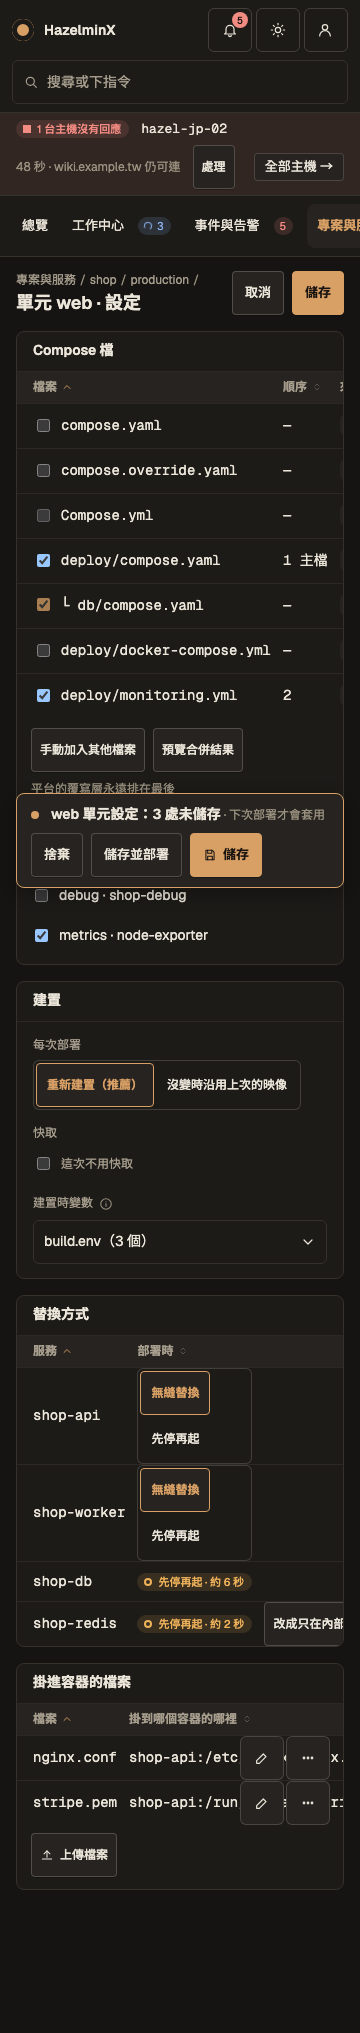
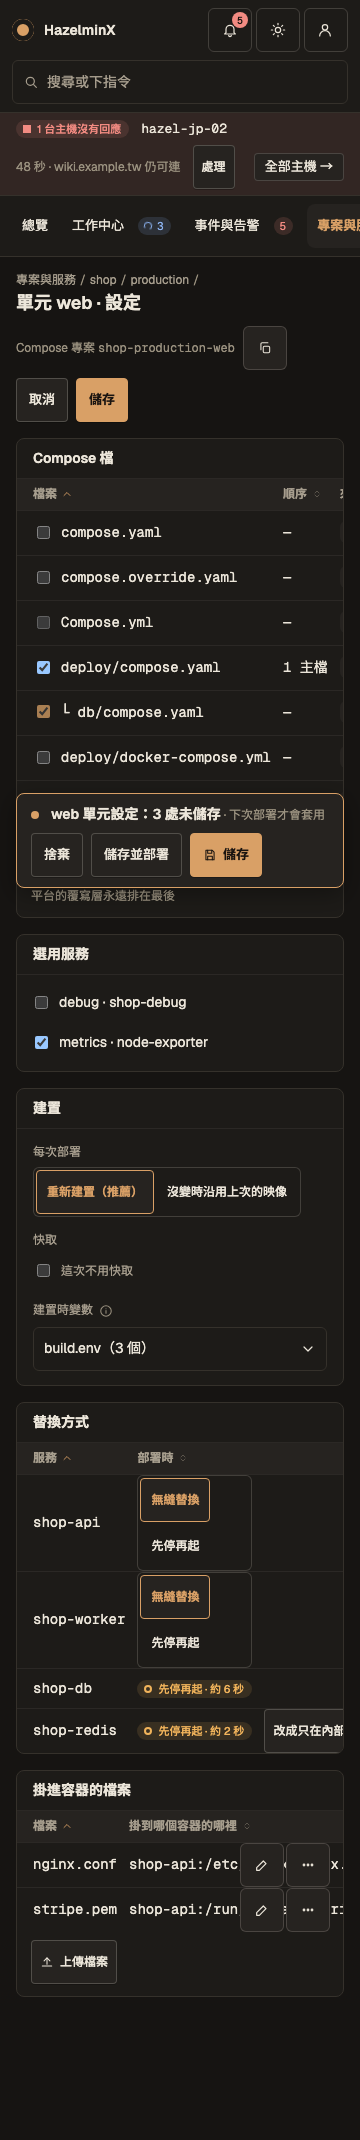
design: show the Compose project name read-only in the unit header

diff --git a/design/screens/UnitConfig.dc.html b/design/screens/UnitConfig.dc.html
@@ -496,7 +496,7 @@ body{margin:0}
     <button type="button" class="nv coll" aria-label="收合側欄"><svg viewBox="0 0 24 24" width="16" height="16" fill="none" stroke="currentColor" stroke-width="1.8" stroke-linecap="round" stroke-linejoin="round" aria-hidden="true"><path d="m14 7-5 5 5 5"/><path d="M4 4v16"/></svg><span>收合</span></button>
   </nav><main class="main">
     <div class="phead"><div class="name"><nav class="pcrumb" aria-label="位置"><a href="Projects.dc.html">專案與服務</a><span class="sep" aria-hidden="true">/</span><a href="ProjectDetail.dc.html">shop</a><span class="sep" aria-hidden="true">/</span><a href="ProjectDetail.dc.html">production</a><span class="sep" aria-hidden="true">/</span></nav><h1>單元 web · 設定</h1></div>
-      <div class="wrap" style="margin-left:auto"><a class="btn" href="ProjectDetail.dc.html">取消</a><button type="button" class="btn pri">儲存</button></div></div><section class="panel"><div class="ph"><h2>Compose 檔</h2></div>
+      <div class="wrap" style="margin-left:auto"><span class="note" tabindex="0" data-tip="在主機上用 docker compose -p 這個名字操作；容器、網路、儲存卷都以它開頭">Compose 專案 <span class="mono">shop-production-web</span></span><button type="button" class="ib" aria-label="複製 Compose 專案名稱"><svg viewBox="0 0 24 24" width="14" height="14" fill="none" stroke="currentColor" stroke-width="1.8" stroke-linecap="round" stroke-linejoin="round" aria-hidden="true"><rect x="9" y="9" width="11" height="11" rx="2"/><path d="M5 15V5a2 2 0 0 1 2-2h10"/></svg></button><a class="btn" href="ProjectDetail.dc.html">取消</a><button type="button" class="btn pri">儲存</button></div></div><section class="panel"><div class="ph"><h2>Compose 檔</h2></div>
       <div class="tw" style="--tc:auto auto auto var(--k3,minmax(min(160px,34%),1fr)) auto"><div class="row hd r0"><span class=""><span class="sortable on">檔案 <svg viewBox="0 0 24 24" width="12" height="12" fill="none" stroke="currentColor" stroke-width="1.8" stroke-linecap="round" stroke-linejoin="round" aria-hidden="true"><path d="m6 15 6-6 6 6"/></svg></span></span><span class=""><span class="sortable">順序 <svg viewBox="0 0 24 24" width="12" height="12" fill="none" stroke="currentColor" stroke-width="1.8" stroke-linecap="round" stroke-linejoin="round" aria-hidden="true"><path d="m8 10 4-4 4 4"/><path d="m8 14 4 4 4-4"/></svg></span></span><span class=""><span class="sortable">來源 <svg viewBox="0 0 24 24" width="12" height="12" fill="none" stroke="currentColor" stroke-width="1.8" stroke-linecap="round" stroke-linejoin="round" aria-hidden="true"><path d="m8 10 4-4 4 4"/><path d="m8 14 4 4 4-4"/></svg></span></span><span class="c3"><span class="sortable">說明 <svg viewBox="0 0 24 24" width="12" height="12" fill="none" stroke="currentColor" stroke-width="1.8" stroke-linecap="round" stroke-linejoin="round" aria-hidden="true"><path d="m8 10 4-4 4 4"/><path d="m8 14 4 4 4-4"/></svg></span></span><span class=""></span></div>
       <div class="row r0"><span class="wrap" style="flex-wrap:nowrap"><input type="checkbox" aria-label="使用 compose.yaml"><span class="mono">compose.yaml</span></span><span class="mono">—</span><span><span class="at " tabindex="0" role="img" aria-label="掃描到 · 根目錄" data-tip="掃描到 · 根目錄"><svg viewBox="0 0 24 24" width="14" height="14" fill="none" stroke="currentColor" stroke-width="1.8" stroke-linecap="round" stroke-linejoin="round" aria-hidden="true"><path d="M3 7a2 2 0 0 1 2-2h4l2 2h8a2 2 0 0 1 2 2v9a2 2 0 0 1-2 2H5a2 2 0 0 1-2-2V7z"/></svg><span>根目錄</span></span></span><span class="c3"><span class="st info"><i aria-hidden="true"></i>Compose 預設會用</span> 根目錄的舊版</span><span><span class="acts"><button type="button" class="ib" aria-label="更多" title="更多"><svg viewBox="0 0 24 24" width="16" height="16" fill="none" stroke="currentColor" stroke-width="1.8" stroke-linecap="round" stroke-linejoin="round" aria-hidden="true"><circle cx="6" cy="12" r="1.2"/><circle cx="12" cy="12" r="1.2"/><circle cx="18" cy="12" r="1.2"/></svg></button></span></span></div>
       <div class="row r0"><span class="wrap" style="flex-wrap:nowrap"><input type="checkbox" aria-label="使用 compose.override.yaml"><span class="mono">compose.override.yaml</span></span><span class="mono">—</span><span><span class="at " tabindex="0" role="img" aria-label="掃描到 · 根目錄" data-tip="掃描到 · 根目錄"><svg viewBox="0 0 24 24" width="14" height="14" fill="none" stroke="currentColor" stroke-width="1.8" stroke-linecap="round" stroke-linejoin="round" aria-hidden="true"><path d="M3 7a2 2 0 0 1 2-2h4l2 2h8a2 2 0 0 1 2 2v9a2 2 0 0 1-2 2H5a2 2 0 0 1-2-2V7z"/></svg><span>根目錄</span></span></span><span class="c3"><span class="st warn"><i aria-hidden="true"></i>override · 疑似開發用</span> <span class="st warn"><i aria-hidden="true"></i>勾選時 ./src → deploy/src</span></span><span><span class="acts"><button type="button" class="ib" aria-label="更多" title="更多"><svg viewBox="0 0 24 24" width="16" height="16" fill="none" stroke="currentColor" stroke-width="1.8" stroke-linecap="round" stroke-linejoin="round" aria-hidden="true"><circle cx="6" cy="12" r="1.2"/><circle cx="12" cy="12" r="1.2"/><circle cx="18" cy="12" r="1.2"/></svg></button></span></span></div>

diff --git a/design/tools/build_screens.py b/design/tools/build_screens.py
@@ -4375,7 +4375,7 @@ def connection_panel() -> str:
 
 # ---------- 單元設定 ----------
 def unit_config() -> str:
-    head = _form_head([("專案與服務", "Projects.dc.html"), ("shop", "ProjectDetail.dc.html"), ("production", "ProjectDetail.dc.html")], "單元 web · 設定", '<a class="btn" href="ProjectDetail.dc.html">取消</a><button type="button" class="btn pri">儲存</button>')
+    head = _form_head([("專案與服務", "Projects.dc.html"), ("shop", "ProjectDetail.dc.html"), ("production", "ProjectDetail.dc.html")], "單元 web · 設定", '<span class="note" tabindex="0" data-tip="在主機上用 docker compose -p 這個名字操作；容器、網路、儲存卷都以它開頭">Compose 專案 <span class="mono">shop-production-web</span></span><button type="button" class="ib" aria-label="複製 Compose 專案名稱">' + U.icon("copy", 14) + '</button><a class="btn" href="ProjectDetail.dc.html">取消</a><button type="button" class="btn pri">儲存</button>')
     def f(path, on, order, src, note, ok=True, ok_tip="隨主檔一起載入，不能單獨取消"):
         box = (f'<input type="checkbox"{" checked" if on else ""} aria-label="使用 {path}">' if ok
                else (f'<span tabindex="0" data-tip="{ok_tip}"><input type="checkbox" class="lockck" checked aria-disabled="true" tabindex="-1" aria-label="{path}：{ok_tip}"></span>' if on
